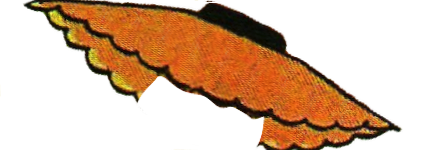
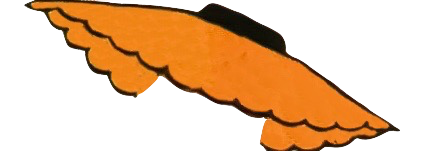
dress edit

diff --git a/styles.css b/styles.css
@@ -375,7 +375,7 @@ background-image: url("images/t1.png");
 
   .torchy-hat {
     position: absolute;
-    top: 15%; left: 20%;
+    top: 10%; right: 10%;
     display: none;
     height: 8vh;
     z-index: 20;
@@ -387,7 +387,7 @@ background-image: url("images/t1.png");
     position: absolute;
     height: 43vh;
     z-index: 5;
-    top:20%; right:10%;
+    top:20%; right:5%;
   }
   #t2, #t3{
     height:45vh;
@@ -537,7 +537,18 @@ background-image: url("images/t1.png");
 }
 @media only screen and (min-width: 768px) and (max-width: 1020px){
 
+  .torchy {
+  }
 
+  #t6, #t11, #t16, #t40 {
+  }
+
+  .torchy-dress, .torchy-dress2, .torchy-dress3, .torchy-dress4, .torchy-dress5,
+  .torchy-dress6, .torchy-dress7, .torchy-dress8, .torchy-dress9, .torchy-dress10,
+  .torchy-dress11, .torchy-dress12{
+  }
+  .torchy-hat {
+  }
 }
 @media only screen and (min-width: 1021px){
 

diff --git a/script.js b/script.js
@@ -261,7 +261,8 @@ let bt82 = document.getElementById("b-t82");
 let bt83 = document.getElementById("b-t83");
 let bt84 = document.getElementById("b-t84");
 
-let allDresses = [t1,t2,t3,t4,t7,t8,t9,t13,t13,t14,t15,t22,t23,t24,t18,t17,t19,t20,t31,t32,t33,t35,t36,t37,t38,t41,t42,t43,t44,t51,t52,t53,t54,t61,t62,t63,t64,t65,t66,t67,t71,t72,t73,t74, t81,t82,t83,t84];
+let allDresses = [t1,t2,t3,t4,t7,t8,t9,t13,t13,t14,t15,t22,t23,t24,t18,t17,t19,t20,t31,t32,t33,t35,t36,t37,t38,t41,t42,t43,t44,t51,t52,t53,t54,t61,t62,t63,t64,t65,t66,t71,t72,t73,t74,t81,t82,t83,t84];
+let allHats = [t5,t10,t39,t55,t56,t67];
 
 function selectDress(dress, dress_list){
   for (i=0; i < dress_list.length; i++){
@@ -271,6 +272,7 @@ function selectDress(dress, dress_list){
       hide_elm(dress_list[i]);
     }
   }
+
 };
 
 function selectHat(hat) {
